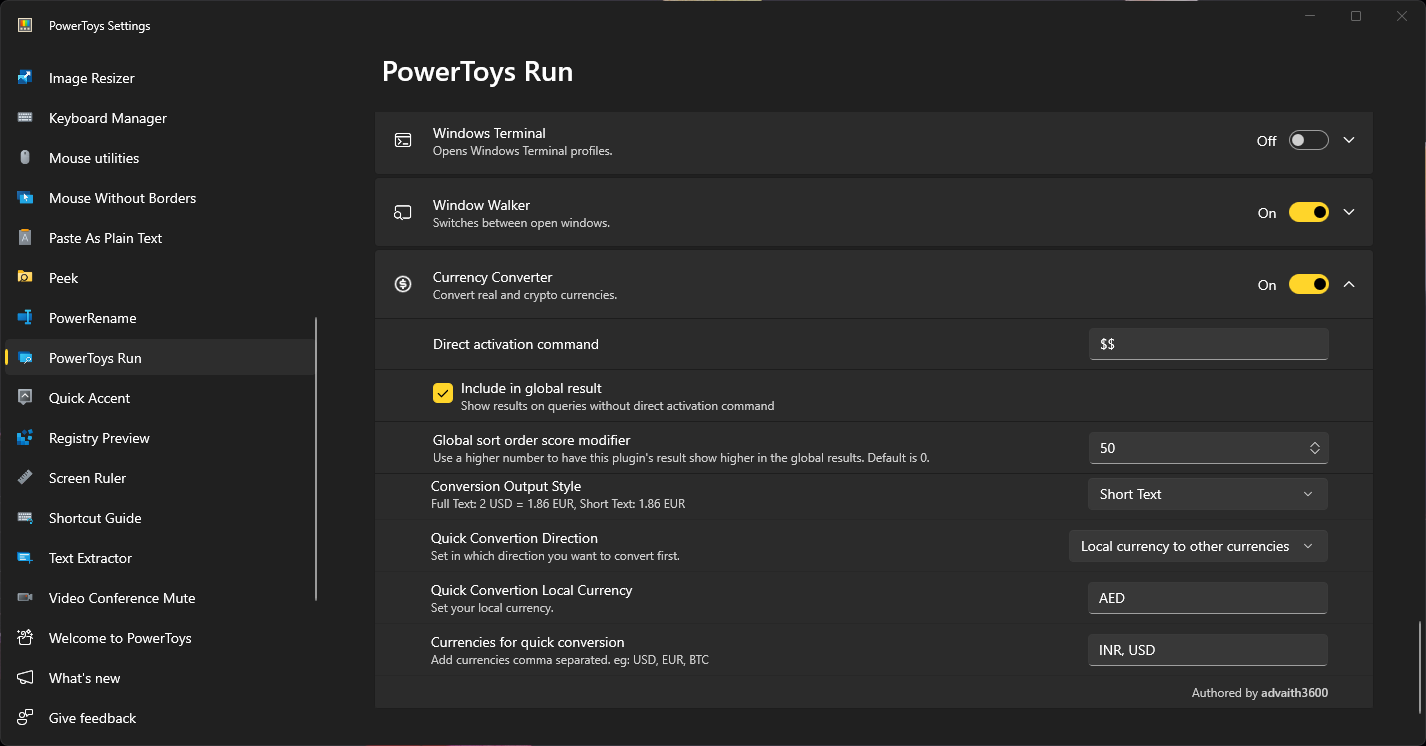
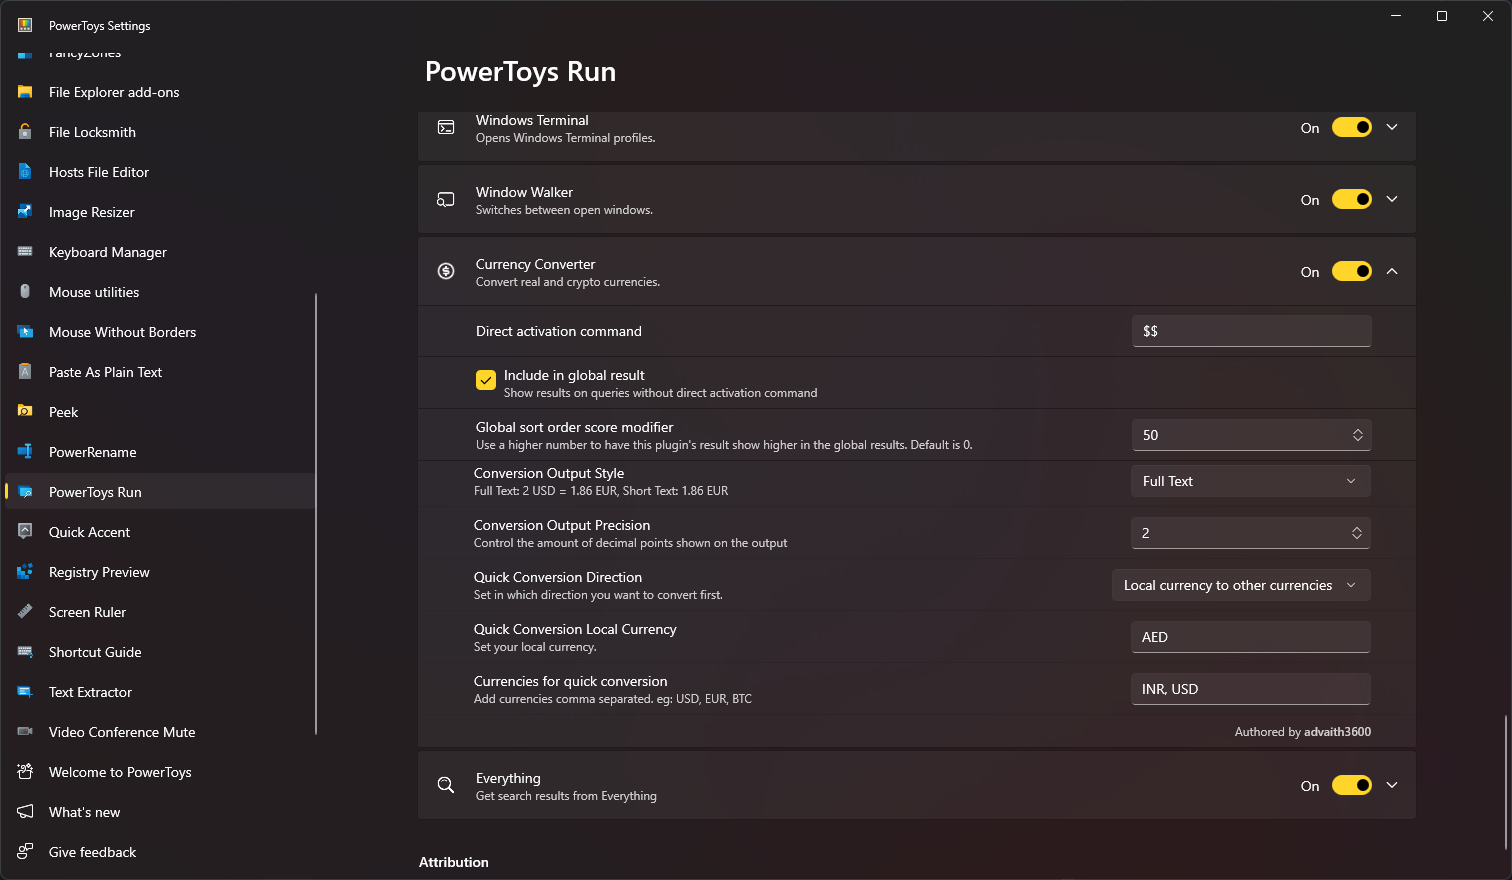
Version 1.1.3

diff --git a/Community.PowerToys.Run.Plugin.CurrencyConverter/Main.cs b/Community.PowerToys.Run.Plugin.CurrencyConverter/Main.cs
@@ -207,7 +207,7 @@ namespace Community.PowerToys.Run.Plugin.CurrencyConverter
                 IcoPath = IconPath,
                 Action = e =>
                 {
-                    Clipboard.SetText(rawConvertedAmount.ToString());
+                    Clipboard.SetText(toFormatted);
                     return true;
                 }
             };
@@ -257,12 +257,7 @@ namespace Community.PowerToys.Run.Plugin.CurrencyConverter
                     while (i < expression.Length && ((expression[i] >= '0' && expression[i] <= '9') || expression[i] == '.'))
                         sbuf.Append(expression[i++]);
                     values.Push(double.Parse(sbuf.ToString()));
-                    if (i < expression.Length && expression[i] == ')')
-                    {
-                        while (ops.Count > 0 && ops.Peek() != '(')
-                            values.Push(ApplyOp(ops.Pop(), values.Pop(), values.Pop()));
-                        ops.Pop();
-                    }
+                    i--;
                 }
 
                 else if (expression[i] == '(')
@@ -270,7 +265,7 @@ namespace Community.PowerToys.Run.Plugin.CurrencyConverter
 
                 else if (expression[i] == ')')
                 {
-                    while (ops.Peek() != '(')
+                    while (ops.Count > 0 && ops.Peek() != '(')
                         values.Push(ApplyOp(ops.Pop(), values.Pop(), values.Pop()));
                     ops.Pop();
                 }

diff --git a/README.md b/README.md
@@ -34,7 +34,7 @@ $$ 1 btc to usd
 
 ### Quick Conversions
 
-You can quickly convert from your local currency to a global currency by just typing the number. This list will also include all the extra currencies that you have configured in the settings panel.
+You can swiftly convert from your local currency to another currency simply by typing the number. The settings allow you to change both the local and all other currencies.
 
 ```
 $$ 102.2
@@ -42,14 +42,22 @@ $$ 102.2
 
 ![Screenshot](screenshots/screenshot4.png)
 
-### Output formatting
+### Output formatting and precision
 
-The plugin supports two modes of output
+The plugin supports two modes of output:
 
-1. Short Text: The output will contain the to currency only
-2. Full Text: The output will contain the from currency and the to currency
+Short Text: The output will only contain the target currency.
+Full Text: The output will contain both the source and target currencies.
+
+You can adjust the precision value in the settings. This will determine the number of decimal points to be displayed. The plugin outputs values using dynamic precision. This means that if a value is less than 0, the number of non-zero decimals displayed will be exactly as specified in the settings.
 
 ![Screenshot](screenshots/screenshot5.png)
+
+### Mathematical Calculations
+
+You can input mathematical expressions, and the plugin will evaluate them using the BODMAS rule. The permitted operations are `+` (addition), `-` (subtraction), `*` (multiplication), and `/` (division). The use of brackets is also supported.
+
+![Screenshot](screenshots/screenshot6.png)
 
 ## Installation
 
